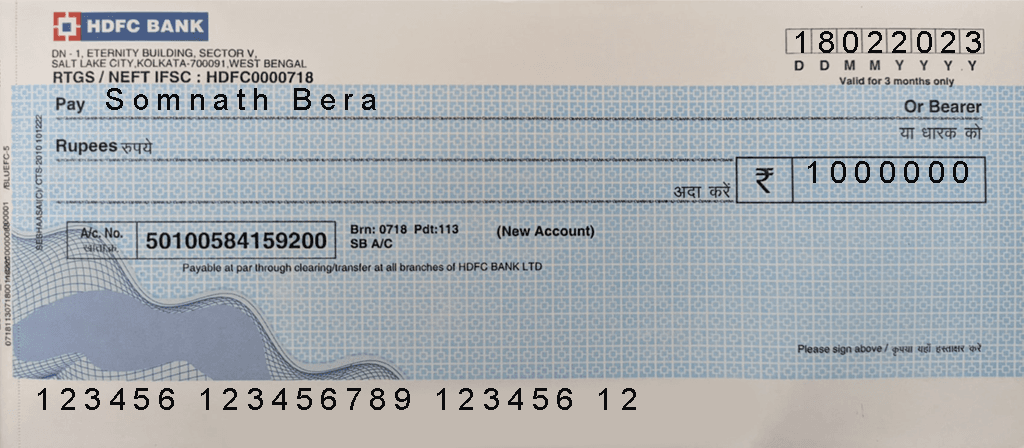
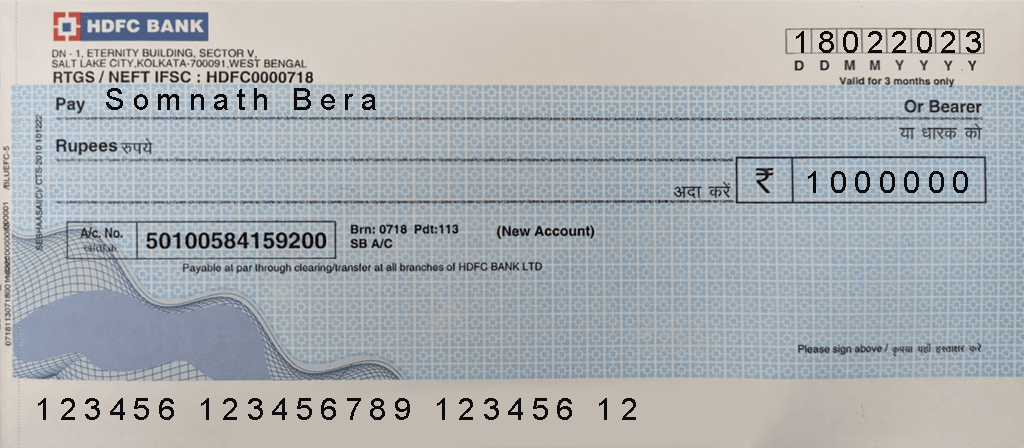
modified some files and created OCR.java

diff --git a/ImgOperation.java b/ImgOperation.java
@@ -11,7 +11,6 @@ import java.util.Map;
 import java.awt.Graphics;
 import java.awt.font.TextAttribute;
 
-
 public class ImgOperation {
 
     // getting color array from image -> [y][x][0/1/2] -> r/g/b
@@ -252,130 +251,137 @@ public class ImgOperation {
 
         return fragment;
     }
+
     public static void writeTextOnImage(File coverImg,
-    HashMap<String, HashMap<String, HashMap<String, Integer>>> sectionCoordinates,
-    HashMap<String, String> chequeData, File coverOutImg) {
+            HashMap<String, HashMap<String, HashMap<String, Integer>>> sectionCoordinates,
+            HashMap<String, String> chequeData, File coverOutImg) {
 
-BufferedImage bufferedCoverImg = null;
-try {
-    bufferedCoverImg = ImageIO.read(coverImg);
-} catch (IOException e) {
-    e.printStackTrace();
-}
-
-Graphics g = bufferedCoverImg.getGraphics();
-g.setFont(g.getFont().deriveFont(30f));
-g.setColor(new Color(10, 10, 10));
-Map<TextAttribute, Object> attributes = new HashMap<TextAttribute, Object>();
-// adding space bettween letters as an text attribute
-attributes.put(TextAttribute.TRACKING, 0.25);
-g.setFont(g.getFont().deriveFont(attributes));
-
-for (String key : chequeData.keySet()) {
-    g.drawString(chequeData.get(key),
-            sectionCoordinates.get(key).get("start").get("x") + 5,
-            sectionCoordinates.get(key).get("start").get("y") + 20);
-}
-
-g.dispose();
-try {
-    ImageIO.write(bufferedCoverImg, "png", coverOutImg);
-} catch (IOException e) {
-    e.printStackTrace();
-}
-
-}
-
-
-
-public static void embedSignatureInImage(String signPath, String coverImagePath, String outputPath) throws IOException {
-
-
-    File sign = new File(signPath);
-    // Creating an object of FileInputStream to
-    // read from a file
-    FileInputStream fl = new FileInputStream(sign);
-
-    // Now creating byte array of same length as file
-    byte[] arr = new byte[(int) sign.length()];
-
-    // Reading file content to byte array
-    // using standard read() method
-    fl.read(arr);
-
-    // lastly closing an instance of file input stream
-    // to avoid memory leakage
-    fl.close();
-    //System.out.println(arr.length);
-    /// System.out.println(Arrays.toString(arr));
-
-    embed(arr, new File(coverImagePath), outputPath);
-}
-
-// embedding sign file bytes
-public static void embed(byte[] signBytes, File image, String outputPath) throws IOException {
-    BufferedImage img = ImageIO.read(image);
-    int width = img.getWidth();
-    int height = img.getHeight();
-    // storing the image coordinates for getting the segmented coordinates
-    int[] imgCoordinates = { 0, 0, width - 1, height - 1 };
-
-    // storing segmented coordinates in segmentedImgCoordinateMap : using methods
-    // from GenerateCoordinates class
-    HashMap<String, HashMap<String, HashMap<String, HashMap<String, Integer>>>> segmentedImgCoordinateMap = getCoordinatesFromCoverImg(imgCoordinates);
-
-    int xs = segmentedImgCoordinateMap.get("region-4").get("segment-2").get("start").get("x");
-    int ys = segmentedImgCoordinateMap.get("region-4").get("segment-2").get("start").get("y");
-    int xe = segmentedImgCoordinateMap.get("region-4").get("segment-3").get("end").get("x");
-    int ye = segmentedImgCoordinateMap.get("region-4").get("segment-3").get("end").get("y");
-
-    int c = 0;
-
-    boolean embedded = false;
-    int cur = 0;
-    int xOffset = 30;
-    int yOffset = 20;
-
-    for (int y = ys+yOffset; y < ye-yOffset && !embedded; y++) {
-        for (int x = xs+xOffset; x < xe-xOffset && !embedded; x++) {
-            // Retrieving contents of a pixel
-            int pixel = img.getRGB(x, y);
-            // Creating a Color object from pixel value
-            Color color = new Color(pixel, true);
-            // Retrieving the R G B values
-            int red = color.getRed();
-            int green = color.getGreen();
-            int blue = color.getBlue();
-            // Modifying the RGB values
-            // embedding the RGB values
-            // if (cur < 255) {
-            // red = signBytes[cur++] + 128;
-            // green = signBytes[cur++] + 128;
-            // blue = signBytes[cur++] + 128;
-            // } else {
-            // red = signBytes[cur++] + 128;
-            // }
-            red = signBytes[cur++] + 128;
-            // green = signBytes[cur++] + 128;
-            blue = signBytes[cur++] + 128;
-            if (cur == signBytes.length) {
-                // embedded = true;
-                // System.out.println("embedded");
-                c++;
-                cur = 0;
-            }
-            // Creating new Color object
-            color = new Color(red, green, blue);
-            // Setting new Color object to the image
-            img.setRGB(x, y, color.getRGB());
+        BufferedImage bufferedCoverImg = null;
+        try {
+            bufferedCoverImg = ImageIO.read(coverImg);
+        } catch (IOException e) {
+            e.printStackTrace();
         }
-    }
-    // Saving the modified image
-    File file = new File(outputPath);
-    ImageIO.write(img, "png", file);
-    System.out.println("Embedding signature in Image done... " + c+" times...");
-    
-}
 
+        Graphics g = bufferedCoverImg.getGraphics();
+        g.setFont(g.getFont().deriveFont(30f));
+        g.setColor(new Color(10, 10, 10));
+        Map<TextAttribute, Object> attributes = new HashMap<TextAttribute, Object>();
+        // adding space bettween letters as an text attribute
+        attributes.put(TextAttribute.TRACKING, 0.25);
+        g.setFont(g.getFont().deriveFont(attributes));
+        int xOffset = 5;
+        int yOffset = 20;
+
+        for (String key : chequeData.keySet()) {
+            if(key.equals("cheque") || key.equals("amount")){
+                yOffset=30;
+            }
+            else{
+                yOffset=20;
+            }
+            g.drawString(chequeData.get(key),
+                    sectionCoordinates.get(key).get("start").get("x") + xOffset,
+                    sectionCoordinates.get(key).get("start").get("y") + yOffset);
+        }
+
+        g.dispose();
+        try {
+            ImageIO.write(bufferedCoverImg, "png", coverOutImg);
+        } catch (IOException e) {
+            e.printStackTrace();
+        }
+
+    }
+
+    public static void embedSignatureInImage(String signPath, String coverImagePath, String outputPath)
+            throws IOException {
+
+        File sign = new File(signPath);
+        // Creating an object of FileInputStream to
+        // read from a file
+        FileInputStream fl = new FileInputStream(sign);
+
+        // Now creating byte array of same length as file
+        byte[] arr = new byte[(int) sign.length()];
+
+        // Reading file content to byte array
+        // using standard read() method
+        fl.read(arr);
+
+        // lastly closing an instance of file input stream
+        // to avoid memory leakage
+        fl.close();
+        // System.out.println(arr.length);
+        /// System.out.println(Arrays.toString(arr));
+
+        embed(arr, new File(coverImagePath), outputPath);
+    }
+
+    // embedding sign file bytes
+    public static void embed(byte[] signBytes, File image, String outputPath) throws IOException {
+        BufferedImage img = ImageIO.read(image);
+        int width = img.getWidth();
+        int height = img.getHeight();
+        // storing the image coordinates for getting the segmented coordinates
+        int[] imgCoordinates = { 0, 0, width - 1, height - 1 };
+
+        // storing segmented coordinates in segmentedImgCoordinateMap : using methods
+        // from GenerateCoordinates class
+        HashMap<String, HashMap<String, HashMap<String, HashMap<String, Integer>>>> segmentedImgCoordinateMap = getCoordinatesFromCoverImg(
+                imgCoordinates);
+
+        int xs = segmentedImgCoordinateMap.get("region-4").get("segment-2").get("start").get("x");
+        int ys = segmentedImgCoordinateMap.get("region-4").get("segment-2").get("start").get("y");
+        int xe = segmentedImgCoordinateMap.get("region-4").get("segment-3").get("end").get("x");
+        int ye = segmentedImgCoordinateMap.get("region-4").get("segment-3").get("end").get("y");
+
+        int c = 0;
+
+        boolean embedded = false;
+        int cur = 0;
+        int xOffset = 30;
+        int yOffset = 20;
+
+        for (int y = ys + yOffset; y < ye - yOffset && !embedded; y++) {
+            for (int x = xs + xOffset; x < xe - xOffset && !embedded; x++) {
+                // Retrieving contents of a pixel
+                int pixel = img.getRGB(x, y);
+                // Creating a Color object from pixel value
+                Color color = new Color(pixel, true);
+                // Retrieving the R G B values
+                int red = color.getRed();
+                int green = color.getGreen();
+                int blue = color.getBlue();
+                // Modifying the RGB values
+                // embedding the RGB values
+                // if (cur < 255) {
+                // red = signBytes[cur++] + 128;
+                // green = signBytes[cur++] + 128;
+                // blue = signBytes[cur++] + 128;
+                // } else {
+                // red = signBytes[cur++] + 128;
+                // }
+                red = signBytes[cur++] + 128;
+                // green = signBytes[cur++] + 128;
+                blue = signBytes[cur++] + 128;
+                if (cur == signBytes.length) {
+                    // embedded = true;
+                    // System.out.println("embedded");
+                    c++;
+                    cur = 0;
+                }
+                // Creating new Color object
+                color = new Color(red, green, blue);
+                // Setting new Color object to the image
+                img.setRGB(x, y, color.getRGB());
+            }
+        }
+        // Saving the modified image
+        File file = new File(outputPath);
+        ImageIO.write(img, "png", file);
+        System.out.println("Embedding signature in Image done... " + c + " times...");
+
+    }
 
 }

diff --git a/TDS.java b/TDS.java
@@ -65,9 +65,9 @@ public class TDS {
 
         for (int reg = 1; reg <= 4; reg++) {
             for (int seg = 1; seg <= 4; seg++) {
-                System.out.println("region : " + reg + ", seg:" + seg);
+                //System.out.println("region : " + reg + ", seg:" + seg);
                 ArrayList<Integer[][]> pixelArr = getPixelArrayFromSegment(colorArrCover, coverCoordinates, reg, seg);
-                System.out.println(pixelArr.size());
+                //System.out.println(pixelArr.size());
 
                 int startingFragIndex = 2;
                 int matrixInterval = 2;
@@ -90,6 +90,7 @@ public class TDS {
             e.printStackTrace();
         }
         System.out.println("Image Steganography Done...");
+        addSeparator();
 
     }
 
@@ -401,9 +402,9 @@ public class TDS {
 
         for (int reg = 1; reg <= 4; reg++) {
             for (int seg = 1; seg <= 4; seg++) {
-                System.out.println("region : " + reg + ", seg:" + seg);
+                //System.out.println("region : " + reg + ", seg:" + seg);
                 ArrayList<Integer[][]> pixelArr = getPixelArrayFromSegment(colorArrCover, coverCoordinates, reg, seg);
-                System.out.println(pixelArr.size());
+                //System.out.println(pixelArr.size());
 
                 int startingFragIndex = 2;
                 int matrixInterval = 2;

diff --git a/ClientApp.java b/ClientApp.java
@@ -35,7 +35,6 @@ public class ClientApp{
         try {
             ImgOperation.embedSignatureInImage("client-assets/dig-sign/digital-sign.txt", "client-assets/stego-output/stego-cover.png", "client-assets/stego-output/sign-embedded-stego-cover.png");
         } catch (IOException e) {
-            // TODO Auto-generated catch block
             e.printStackTrace();
         }
     }

diff --git a/BankServerApp.java b/BankServerApp.java
@@ -10,7 +10,7 @@ public class BankServerApp {
         int size=32;
     
         //Output File
-        File stegoCover = new File("server-assets/stego-cover/stego-cover.png");
+        File stegoCover = new File("server-assets/stego-cover/sign-embedded-stego-cover.png");
 
 
         String extractionPath = "server-assets/extracted-fPrints";

diff --git a/OCR.java b/OCR.java
@@ -1,0 +1,3 @@
+public class OCR {
+    
+}
